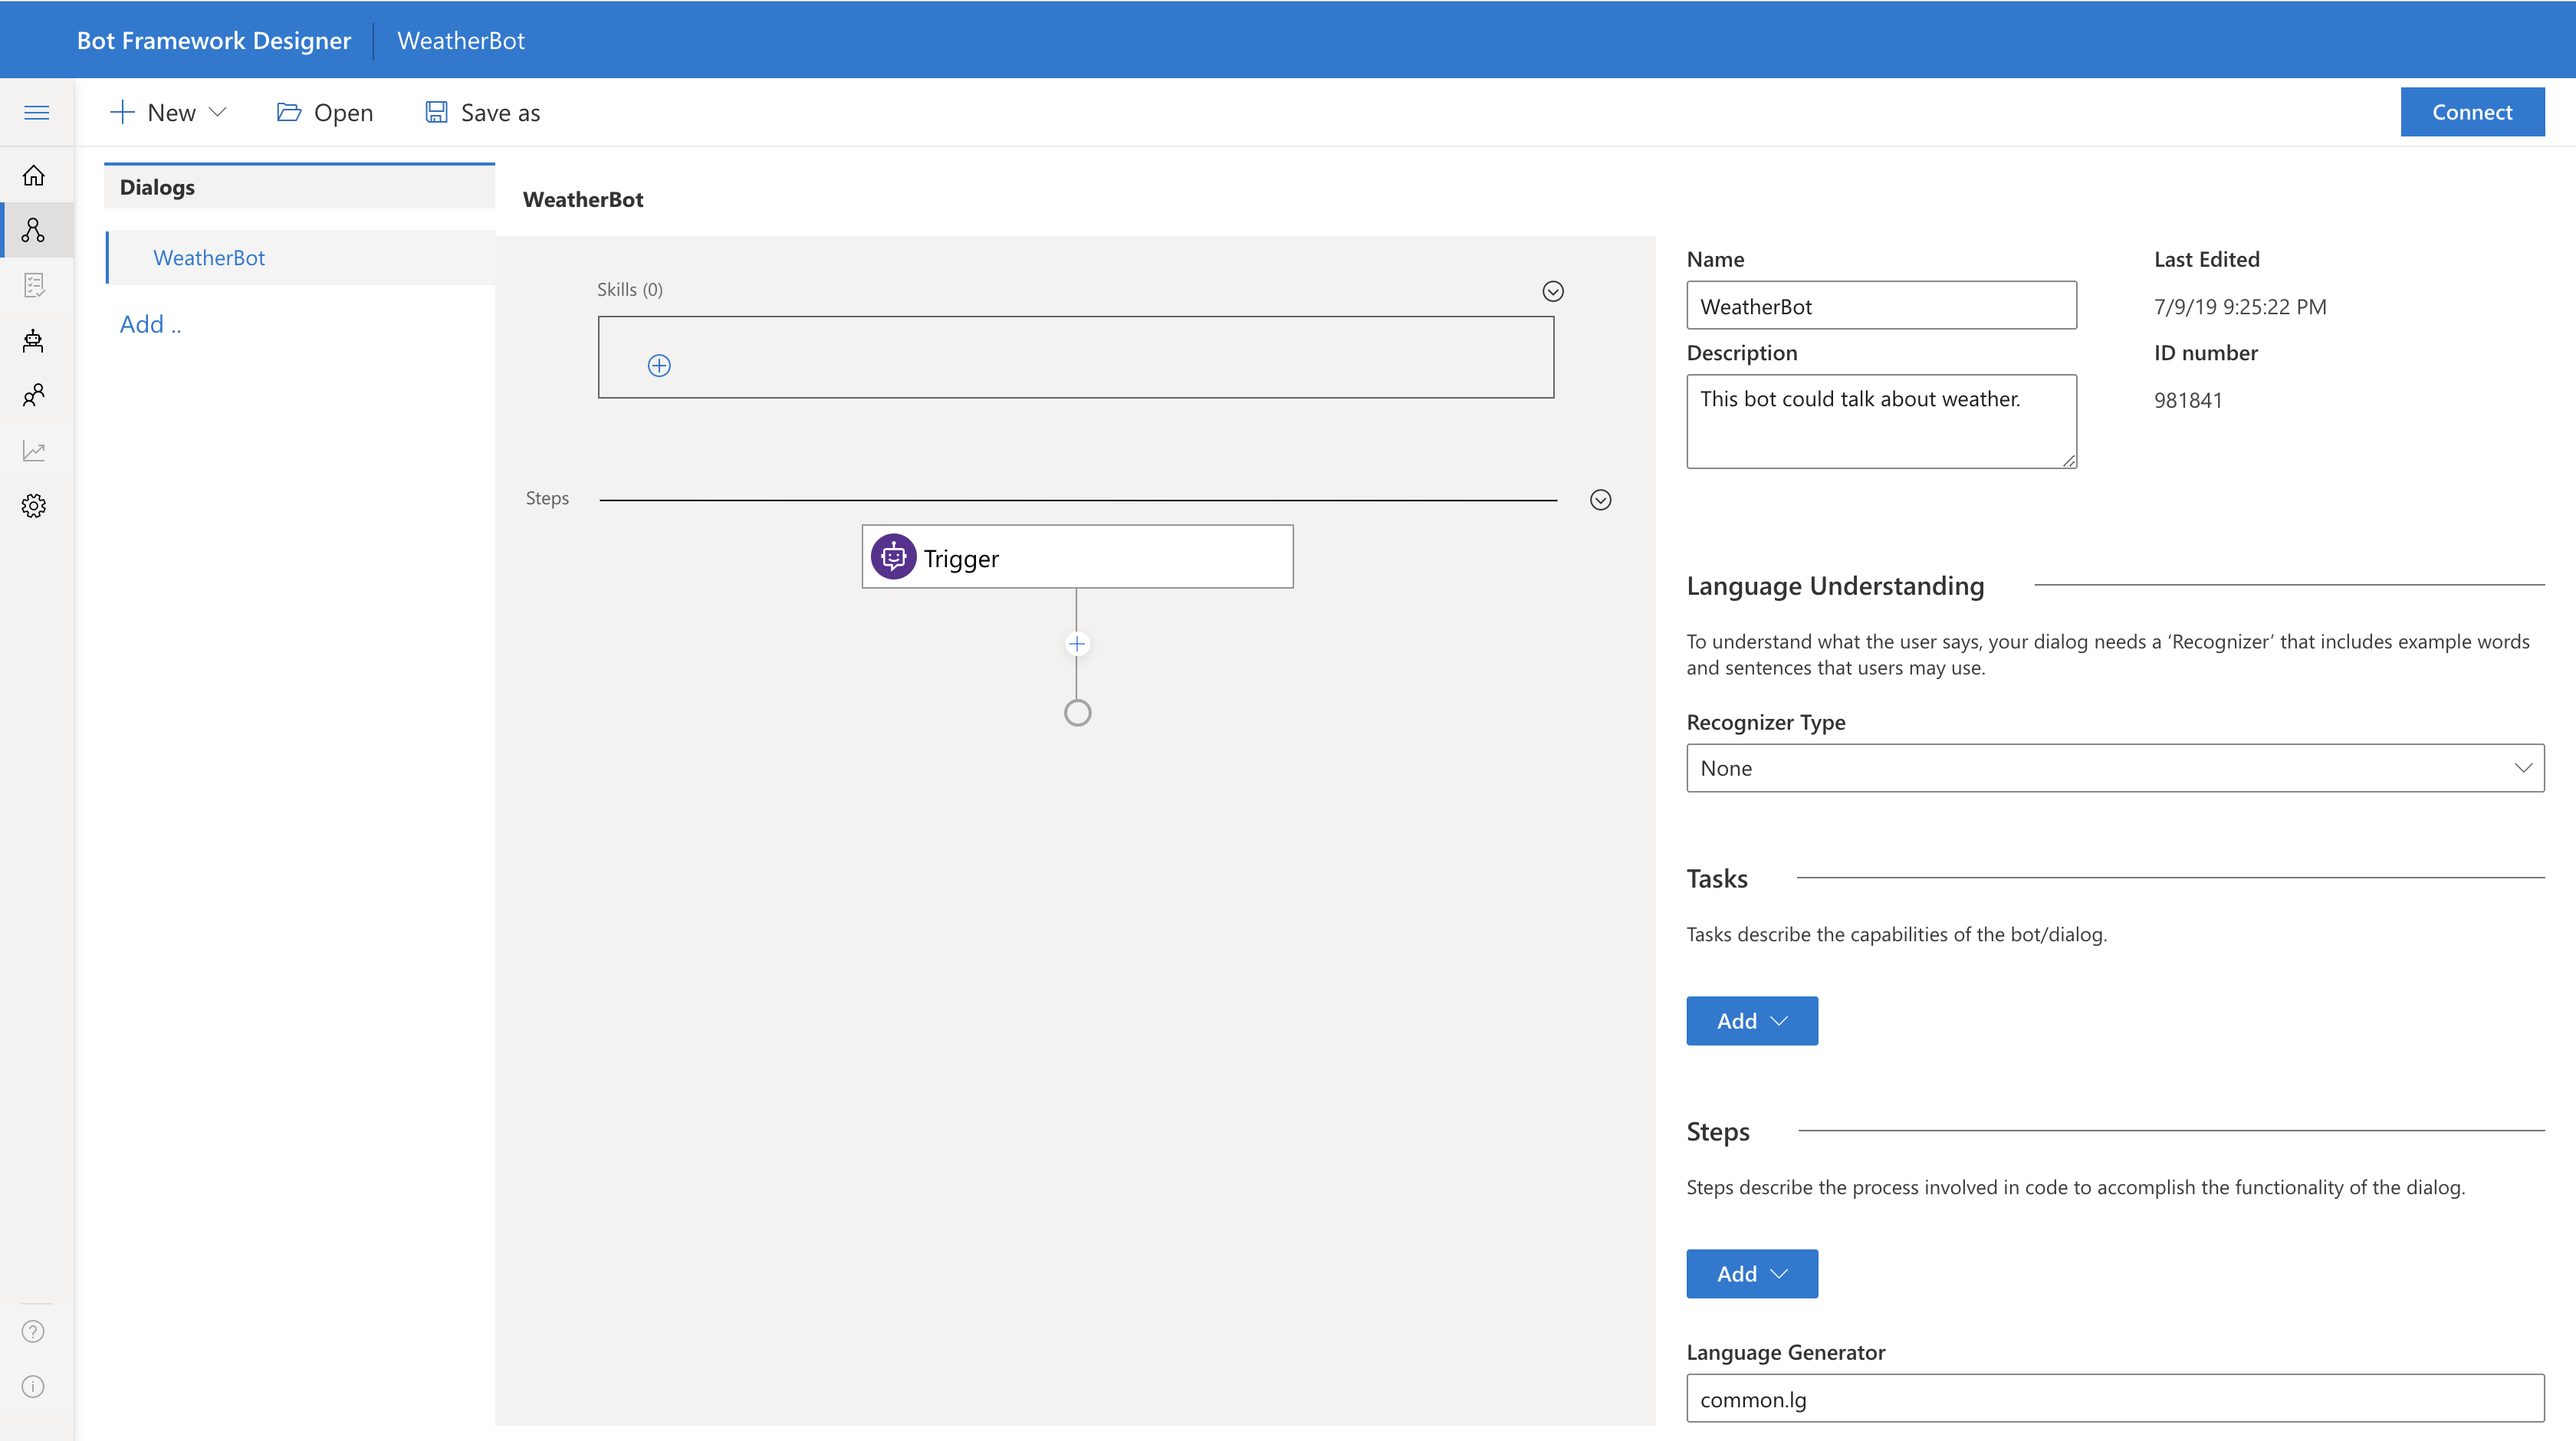
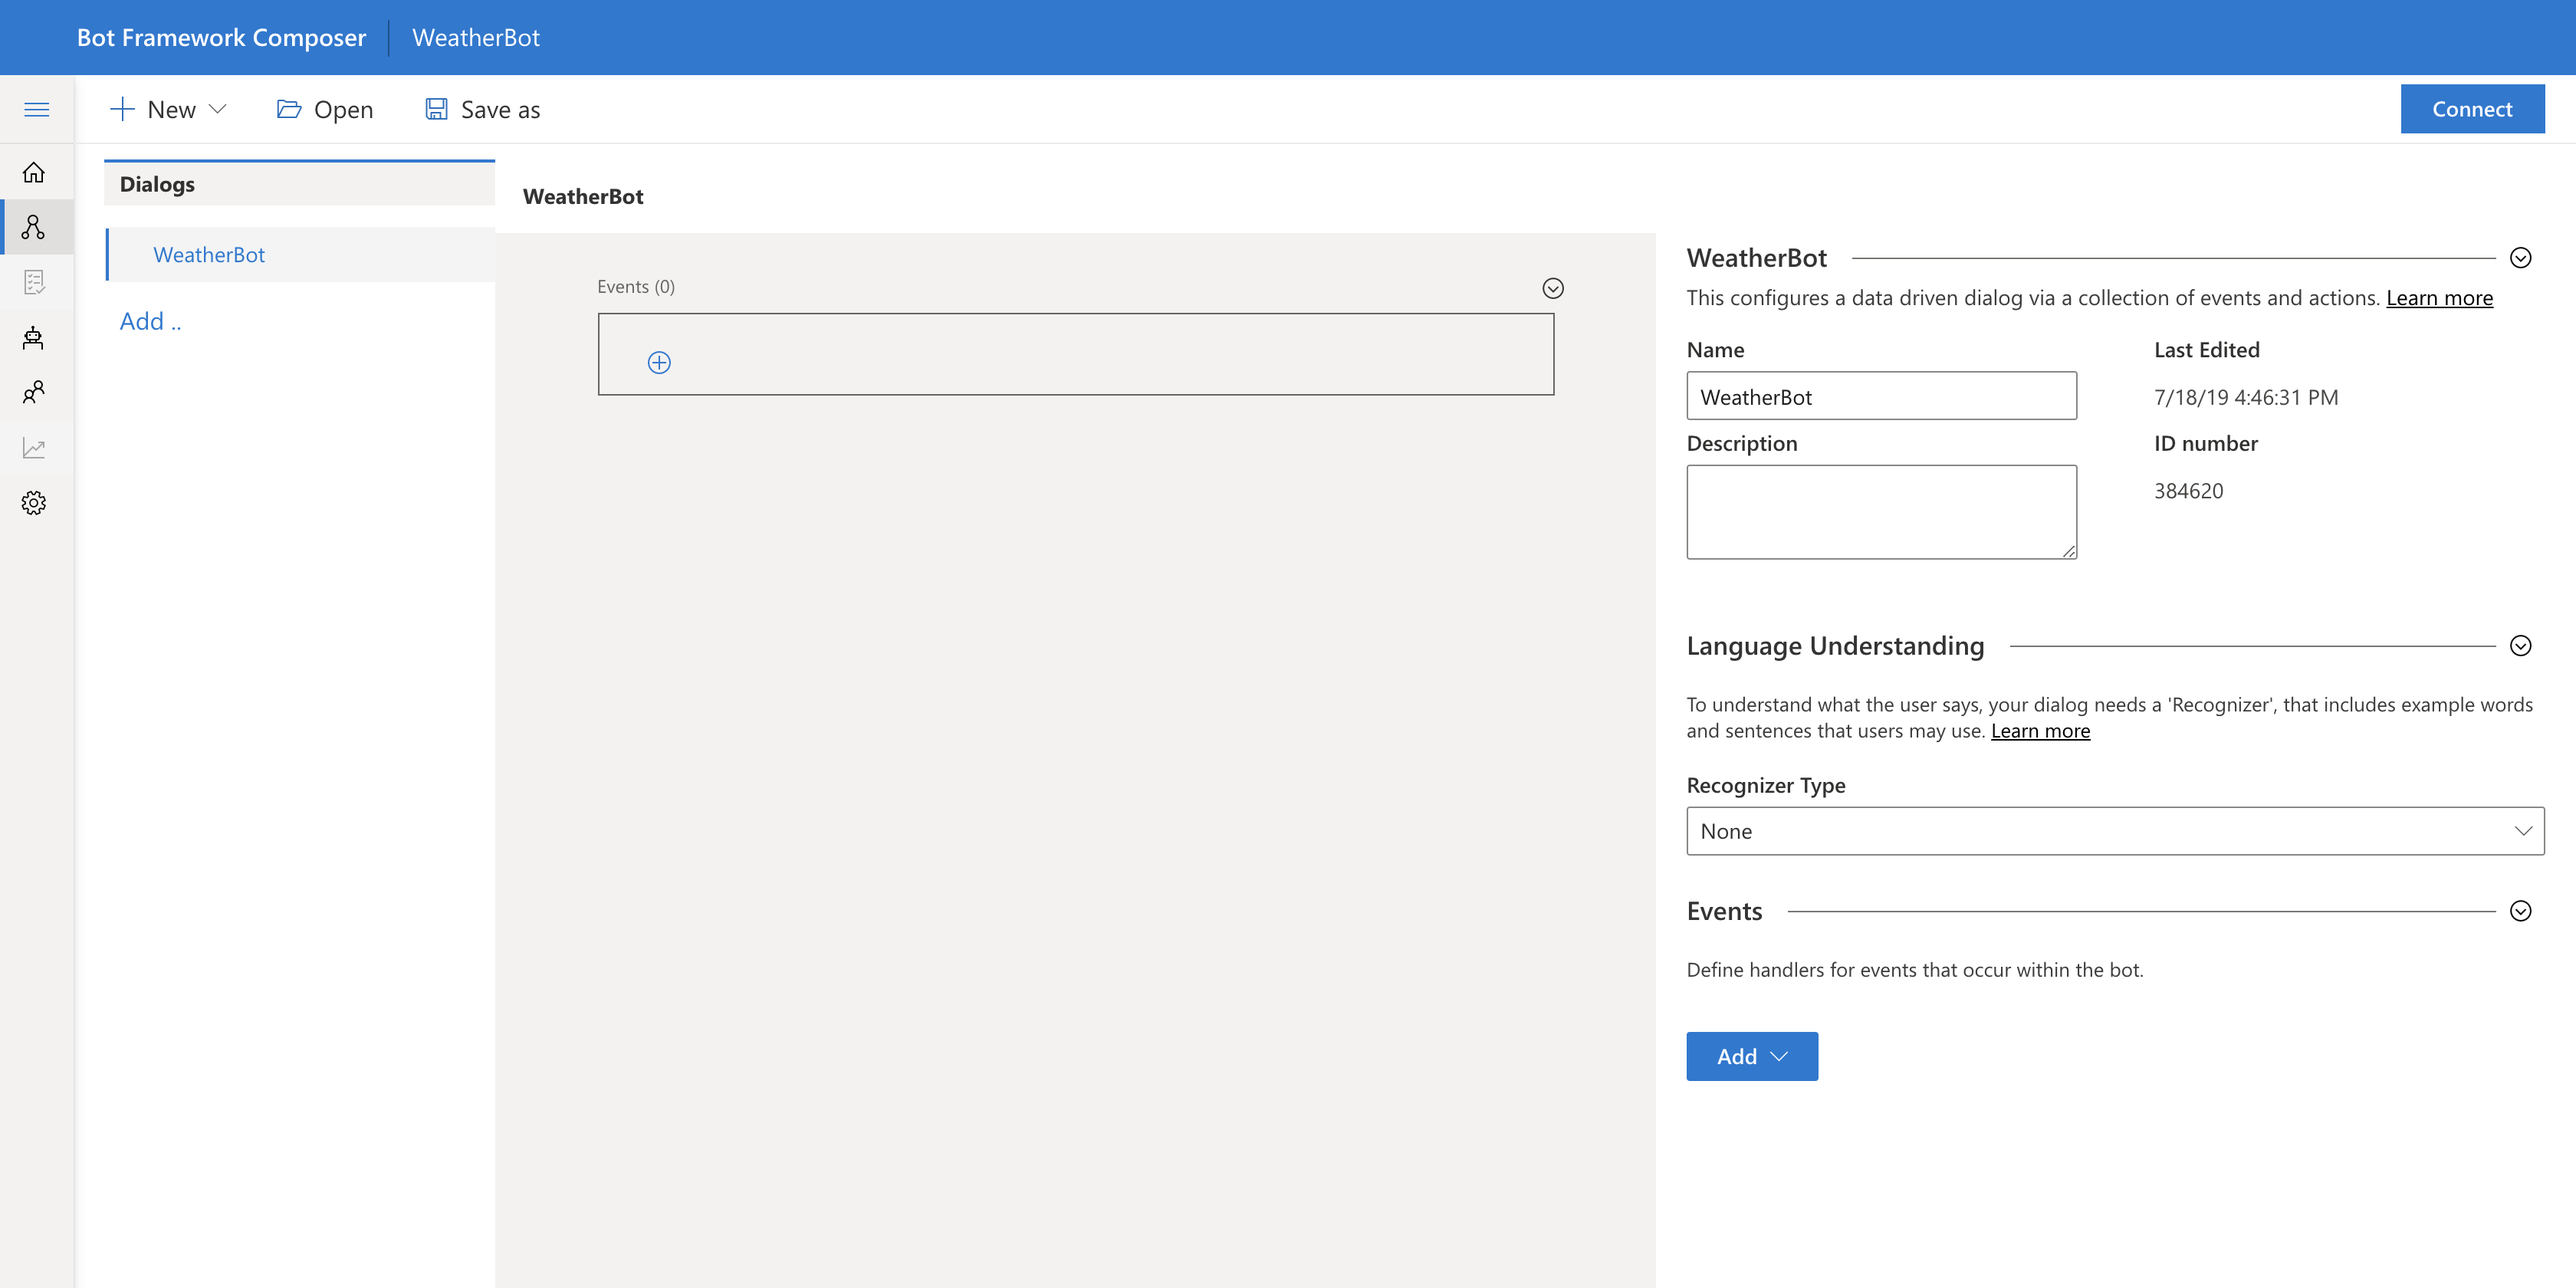
Finished the CreateFirstBot doc
The video was created using the older version. New video cannot be created due to "publishing LUIS models" issue.

diff --git a/docs/CreateYourFirstBot.md b/docs/CreateYourFirstBot.md
@@ -2,71 +2,81 @@
 Follow these six steps to create a weather bot from scratch using Bot Framework Composer. Alternatively, watch the [video](https://microsoft-my.sharepoint.com/:v:/p/t-yangxi/EVcxF6YjGKZOvJjPZstfS5EBLVlDldzoZ5yQiqJlNs_NKw?e=zkzymp).
 
 ## Prerequisites
-* You should have installed Bot Framework Composer and Emulator locally. If not, please follow this [guide](https://github.com/microsoft/BotFramework-Composer) to install the tools.
-* You should have thought about what the user can accomplish with your bot. In other words, you can define the intents, utterances and entities. If not sure, follow [this link](https://github.com/Microsoft/botbuilder-tools/blob/master/packages/Ludown/docs/lu-file-format.md#lu-file-format) to learn more.
+* You’ve already installed Bot Framework Composer and Emulator locally. If not, please follow this [guide](https://github.com/microsoft/BotFramework-Composer) to install the tools.
+* You’ve already thought about what the user will be able to accomplish with your bot. In other words, you’ve defined the intents, utterances, and entities. If you’re not sure, follow this [link](https://github.com/Microsoft/botbuilder-tools/blob/master/packages/Ludown/docs/lu-file-format.md#lu-file-format) to learn more.
 
-## Step 1: creating a new bot
-On the Composer homepage, click **New**. Select **Create from scratch**. Click **Next**. Give your bot a name, for example *WeatherBotDemo*.
+## Step 1: Creating a new bot
+On the Composer homepage, click **New**. Select **Create from scratch**. Click **Next**. Give your bot a name, for example *WeatherBot*. Once created, you should be able to see the following screen.
 
 ![screenshot: creating a new bot](Assets/s1DesignFlow.png)
 
-## Step 2: setting up the intent recognizer
+
+## Step 2: Setting up the intent recognizer
 On the right-hand side of the page, select **BF Language Understanding** for **Recognizer Type**.
 
-![screenshot: setting up the recognizer](Assets/s2Recognizer.png)
+![screenshot: setting up the recognizer](Assets/Recognizer.png)
 
-In the text editor, type in the intents and utterances, then **save file**.
-**Note**: you should use the correct file format to edit the recognizer (see example below). Follow this [link](https://github.com/Microsoft/botbuilder-tools/blob/master/packages/Ludown/docs/lu-file-format.md#lu-file-format) to learn more about the LU format.
+In the text editor, type in the intents and utterances, then click **Save**.
+
+**Note**: You should use the correct file format to edit the recognizer (see example below). Follow this [link](https://github.com/Microsoft/botbuilder-tools/blob/master/packages/Ludown/docs/lu-file-format.md#lu-file-format) to learn more about the LU format.
 
 ![screenshot: editing the LU](Assets/s3LU.png)
 
-## Step 3: creating events as intent handlers
-Inside **Events**, click the **add icon**, then select **Handle an intent**. On the right-hand side, in the **Intent** field, type in the name of the intent which this event is intended to handle. **Note**: the name should match the intent name in the recognizer.
 
-It's a good practice to create a handler for each intent. So in this guide, we created two handlers named *GreetingIntentHandler* and *CheckWeatherIntentHandler*.
+## Step 3: Creating events as intent handlers
+On the **Events** pane, click the **add icon**, then select **Handle an Intent**.
 
-![screenshot: intent name](Assets/s4IntentName.png)
+<img src = "Assets/CreateIntentHandler.png" alt = "create intent handler" width = 250></img>
 
-## Step 4: adding logic to the events
+On the right-hand side of the page, give the intent a name, for example, *GreetingIntentHandler*. In the **Intent** field, type in the name of the intent that this event is intended to handle. **Note**: The name should match the intent name in the recognizer.
+
+It's a good practice to create a handler for each intent. In this guide, we’ve created two handlers named *GreetingIntentHandler* and *CheckWeatherIntentHandler*.
+
+<img src = "Assets/IntentName.png" alt = "edit intent" width = 500></img>
+
+
+## Step 4: Adding logic to the events
 There are two ways to do this:
 1. Adding actions without dialogs
 2. Adding actions using dialogs
 
 **Why use dialogs?**
 
-Dialog allows you to create a multi-turn conversation. Each dialog is designed to perform a specific task. Using dialogs in your logic can make your bot program extensible and easily manageable. Follow this [link](https://docs.microsoft.com/en-us/azure/bot-service/bot-builder-concept-dialog?view=azure-bot-service-4.0) to learn more about dialogs.
+Dialogs allow you to create a multi-turn conversation. Each dialog is designed to perform a specific task. Using dialogs in your logic can make your bot program extensible and easily manageable. Follow this link to learn more about dialogs.
 
-In this guide, we will demonstrate both approaches. To start, click on the event icon to go to the logic page.
+In this guide, we will demonstrate both approaches. To start, click the event icon to go to the logic page.
 
-<img src = "Assets/s5.png" alt = "edit intent" width = 500></img>
+<img src = "Assets/EventIcon.png" alt = "edit intent" width = 500></img>
 
+### 4.1: Adding actions without dialogs
+Let's add logic to *GreetingIntentHandler*. By design, we want the bot to send a message to the user in response to the *Greeting* intent. To do this, click the **add icon**, select **Send Messages**, then select **Send Activity**. On the **Language Generation** pane, type in the bot response. For example, *Hello from the bot!*.
 
-### 4.1: adding actions without dialogs
+![screenshot: LG](Assets/AddActions.png)
 
-Let's add logic to *GreetingIntentHandler*. By design, we want the bot to send a message to the user in respond to the *GreetingIntent*. To do this, click the **add icon**, select **Send Messages**, select **Send a single message**. On the **Language Generation** pane, type in the bot response. For example, *Hello from the bot!*.
-
-![screenshot: LG](Assets/s6.png)
-
-### 4.2: adding logic using dialogs
-Let's add logic to *CheckWeatherIntentHandler* by using a dialog. By design, we want the bot to begin a dialog (and take actions as specified in that dialog) in response to the *CheckWeatherIntent*. To do this, we first need to create a dialog (e.g. *CheckWeatherDialog*), then add this dialog to the *CheckWeatherIntentHandler*.
+### 4.2 Adding logic using dialogs
+Let's add logic to *CheckWeatherIntentHandler* by using a dialog. By design, we want the bot to begin a dialog (and take actions as specified in that dialog) in response to the *CheckWeather* intent. To do this, we first need to create a dialog (e.g. *CheckWeatherDialog*), then add this dialog to the *CheckWeatherIntentHandler*.
 
 To create a dialog, click **Add** and follow the instructions to complete the process. Once a dialog is created, add actions to this dialog following the same process as described in 4.1.
 
-``<add a screenshot>``
+![screenshot: LG](Assets/AddADialog.png)
 
-To add the newly created dialog to the event, first, go back to the root dialog, click on the event to which you want to add a dialog. Click the **add icon**, select **Dialogs**, select **Begin a Dialog**, then choose a dialog from the list.  
 
-``<add a screenshot>``
+To add the newly created dialog to the event, first, go back to the root dialog, then select the event to which you want to add the dialog. Click the **add icon**, select **Dialogs**, select **Begin a Dialog**, then choose a dialog from the list.   
 
-## Step 5: (optional) creating handlers for other types of events
-Besides recognized intents, you may want to handle other types of events, for example, when there are unrecognized intents or when a user joins the conversation. Creating handlers for these types of events is no different from creating intent handlers. You just need to select a different event type as shown below. For example, select **Handle ConversationUpdate** if you want to send a welcome message to the user when they first joins the conversation (this is when a conversationUpdate event is trigged).
+![screenshot: LG](Assets/BeginADialog.png)
 
-``<add a screenshot>``
 
-## Step 6: testing your bot
+## Step 5: (Optional) Creating handlers for other types of events
+Besides recognized intents, you may want to handle other types of events, for example, when there are unrecognized intents or when a user joins the conversation. Creating handlers for these types of events is no different from creating intent handlers. You just need to select a different event type as shown below. For example, select **Handle ConversationUpdate** if you want to send a welcome message to the user when they first join the conversation (when a conversationUpdate event is trigged).
+
+<img src = "Assets/OtherEventHandler.png" alt = "edit intent" width = 450></img>
+
+
+## Step 6: Testing your bot
 Now your bot is ready for testing! Click **Connect/Reload** on the top right corner of the screen, then select **Test in Emulator**.
 
-Note: you may be prompted to **Publish LUIS models**. Please follow the link to LUIS site, go to **Settings**, copy the **Authoring Key** and fill out the fields to publish LUIS models.
+**Note**: You may be prompted to **Publish LUIS models**. Please follow the link to the LUIS site, go to **Settings**, copy the **Authoring Key**, and fill out the fields to publish LUIS models.
 
 ## Next
-* [Create a bot using advanced features](https://dev.botframework.com/)
+
+- [Explore more features that Bot Framework Composer has to offer](https://github.com/microsoft/BotFramework-Composer)
